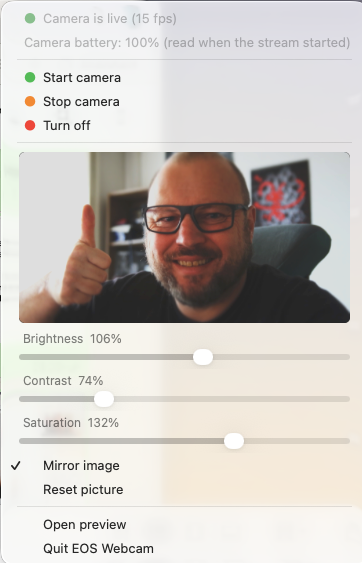
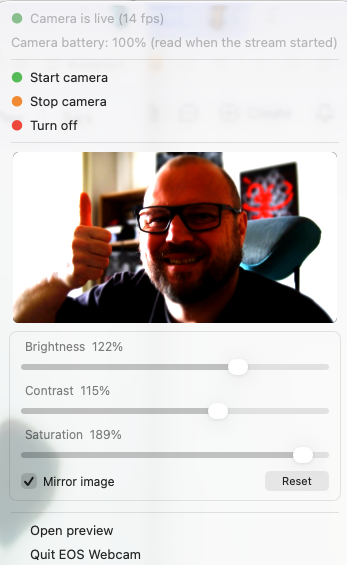
Docs: menu screenshot with the boxed picture controls
Claude-Session: https://claude.ai/code/session_01BecR94t35RgPeNaA9Jm41x

diff --git a/docs/index.html b/docs/index.html
@@ -233,7 +233,7 @@ footer{color:var(--muted);font-size:14px;border-top:1px solid var(--line);paddin
 
   <section class="col flow">
     <h2>Daily use</h2>
-    <figure class="shot"><img src="img/menu.png" width="362" height="563" alt="EOS Webcam menu: status, battery, Start, Stop, Turn off, live preview, Brightness, Contrast and Saturation sliders, Mirror image, Reset picture"></figure>
+    <figure class="shot"><img src="img/menu.png" width="347" height="565" alt="EOS Webcam menu: status, battery, Start, Stop, Turn off, live preview, Brightness, Contrast and Saturation sliders, Mirror image and Reset in one box"></figure>
     <p>Everything is in the menu bar icon. The lens colour shows the state, and each menu item carries the colour it leads to.</p>
     <ul class="items">
       <li><img class="lens" src="img/lens-live.png" width="24" height="24" alt=""> <b>Start camera</b> (green): starts the camera stream and the virtual camera.</li>

diff --git a/README.md b/README.md
@@ -102,7 +102,7 @@ The installer puts **EOS Webcam.app** in Applications. After that you can delete
 
 ## Using it
 
-<img src="docs/img/menu.png" width="362" align="right" alt="EOS Webcam menu: status, battery, Start, Stop, Turn off, live preview, Brightness, Contrast and Saturation sliders, Mirror image, Reset picture">
+<img src="docs/img/menu.png" width="347" align="right" alt="EOS Webcam menu: status, battery, Start, Stop, Turn off, live preview, Brightness, Contrast and Saturation sliders, Mirror image and Reset in one box">
 
 Everything is in the menu bar icon. The lens colour shows the state, and each menu item carries the colour it leads to.
 
